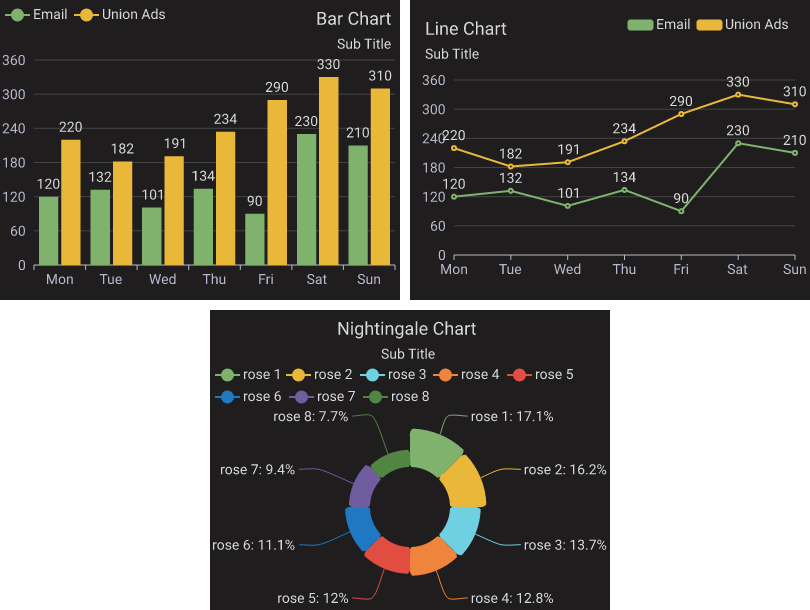
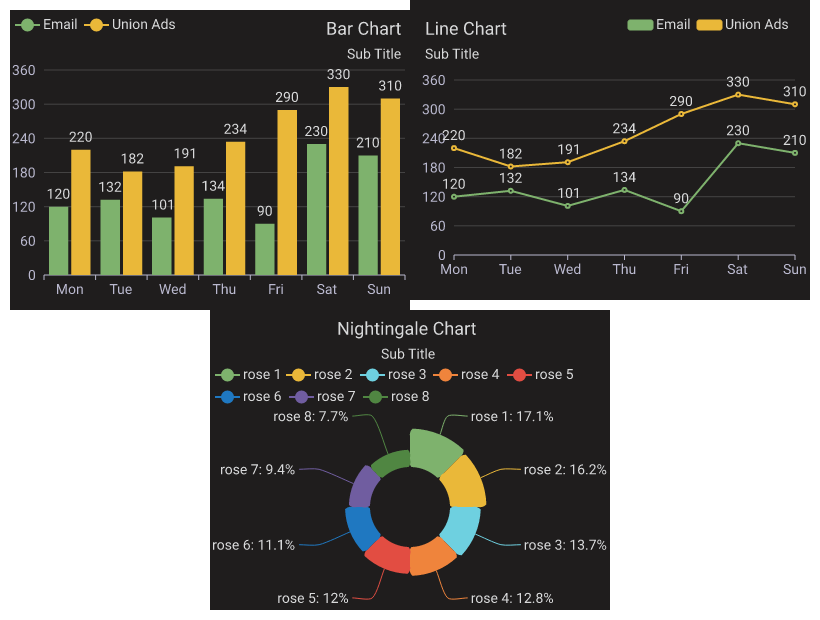
refactor: set default margin for multi chart

Changed region(s): [[0.0, 0.0, 1.0, 1.0]]

diff --git a/src/charts/multi_chart.rs b/src/charts/multi_chart.rs
@@ -124,6 +124,7 @@ impl MultiChart {
         MultiChart {
             charts: vec![],
             gap: 10.0,
+            margin: (10.0).into(),
             ..Default::default()
         }
     }
